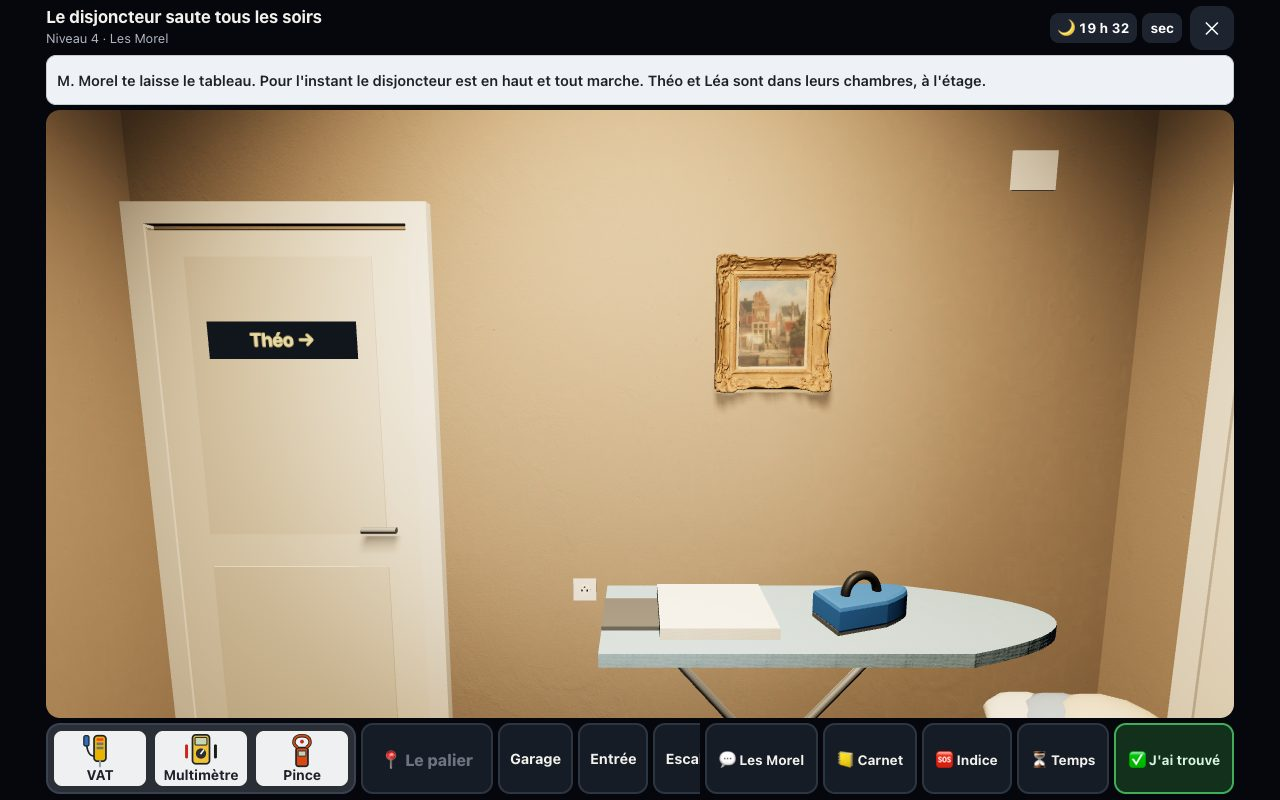
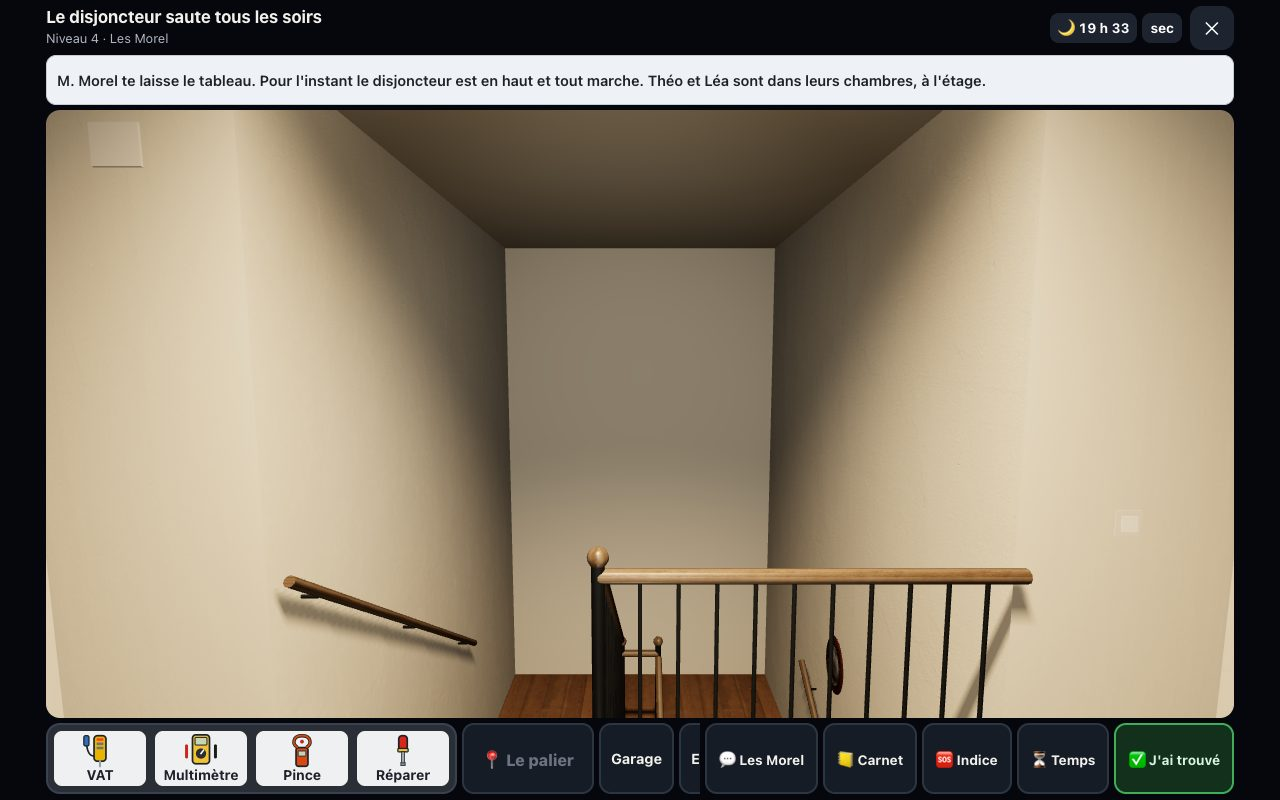
Atelier 3D, niveau 4 : escalier à monter, séjour et cuisine (la plaque de cuisson y est), Théo et Léa dans leur chambre

diff --git a/atelier/3d/niveau/niveau4.js b/atelier/3d/niveau/niveau4.js
@@ -1,8 +1,10 @@
 // Niveau 4 — « Le disjoncteur saute tous les soirs » : le pavillon de la famille Morel.
 // Surcharge ou court-circuit ? Pince ampèremétrique, et un client qui veut « mettre plus gros ».
+import { CAGE, monter, descendre } from "./cage.js";
 import { pavillon, causesPavillon, soireePavillon, reperesPavillon as F } from "../moteur/logements/pavillon.js";
 
 const porte = (vers, mur, u, y = 1.025) => ({ t: "porte", vers, mur, u, y });
+const LE = 1.8, LPA = 2.6; // profondeur du pied de l'escalier et du palier
 const enHaut = (P) => ["palier", "chambre1", "chambre2", "chambre3"].some((l) => P.vus.has(`lieu:${l}`));
 const calibreLu = (P) => P.vus.has("indice:Q6") || P.vus.has("lu:Q6");
 const SOIR = (P) => soireePavillon[P.cause];
@@ -42,6 +44,8 @@ export default {
   },
   // s'asseoir sur le lit de Théo
   gestes: {
+    theo(P, o) { o.dire("Théo retire son casque : « Ouais ? Si c'est pour le courant, c'est le soir que ça saute. Demandez-moi ce qui est allumé, je sais. »", "client"); return true; },
+    lea(P, o) { o.dire("Léa lève les yeux de son téléphone : « Ça saute tous les soirs vers cette heure-ci. J'ai froid dans ma chambre, alors j'ai un radiateur. Posez-moi vos questions si vous voulez. »", "client"); return true; },
     lit(P, o) { const e = P.e; e.appuis.lit = true; const r = P.inst.calculer(e); e.appuis.lit = false; o.dire(r.declenchements.length ? "Tu t'assois sur le lit de Théo…" : "Tu t'assois sur le lit de Théo. Rien ne se passe.", "info"); o.declenchements(r.declenchements); if (r.declenchements.length) { P.vus.add("lit:declenche"); o.noter("indices", "En s'asseyant sur le lit de Théo, le disjoncteur « Prises chambres » déclenche d'un coup."); } return r.declenchements.length > 0; },
   },
   apresMesure(P, m) {
@@ -80,11 +84,11 @@ export default {
     { id: "chargeur", texte: "Le chargeur de téléphone de Léa", non: "10 W, c'est quelques centièmes d'ampère. Ce n'est pas lui." },
   ],
   remedes: [
-    { id: "repartir", pour: ["A"], effet: (P) => { P.e.branche.fer = "pc_entree"; }, texte: "Ne rien changer au tableau : repasser en bas, sur une prise d'un autre circuit, et proposer un circuit dédié", fait: "Aucune pièce changée. Tu expliques : le disjoncteur a fait son travail, il protège les conducteurs. Le fer à repasser ira sur une prise du bas, qui dépend d'un autre circuit, et tu proposes un circuit dédié pour les radiateurs. Le soir même, tout est allumé et le disjoncteur tient.", non: "Il n'y a pas de surcharge : le courant du soir reste sous le calibre prévu." },
-    { id: "identique", pour: ["B"], repare: true, texte: "Remplacer le disjoncteur par le même calibre, 20 A, et serrer correctement ses bornes", fait: "Tu remplaces le disjoncteur abîmé par un neuf du même calibre, 20 A pour ces conducteurs en 2,5 mm², et tu serres ses bornes. Le soir même, tout est allumé et il tient.", non: "Ce disjoncteur n'est pas abîmé : le changer à l'identique ne règle rien." },
-    { id: "rallonge", pour: ["C"], repare: true, texte: "Retirer la rallonge écrasée et brancher la lampe de Théo autrement", fait: "Tu retires la rallonge écrasée, tu la montres à Théo et à son père, et tu branches la lampe directement. Théo se jette sur son lit : le disjoncteur tient.", non: "Aucune rallonge n'est en cause ici." },
-    { id: "calibre", pour: ["D"], repare: true, texte: "Remettre un disjoncteur de 20 A, le calibre prévu pour des conducteurs en 2,5 mm²", fait: "Tu remplaces le disjoncteur de 10 A par un 20 A : c'est le calibre prévu pour des conducteurs en 2,5 mm² (module 12). Le soir même, tout est allumé et il tient.", non: "Le disjoncteur a déjà le calibre prévu pour ces conducteurs." },
-    { id: "gros", pour: [], faute: "Tu as accepté de poser un disjoncteur de 32 A sur des conducteurs en 2,5 mm². Le calibre protège les conducteurs : avec un calibre trop fort, ce sont les fils qui chauffent dans le mur. C'est l'erreur grave de ce dépannage.", texte: "Faire ce que demande M. Morel : poser un disjoncteur de 32 A", non: "« Ah, enfin ! » Non. Le calibre protège les conducteurs : en 2,5 mm², c'est 20 A au plus. Un 32 A laisserait les fils chauffer dans le mur. Tu dois refuser et l'expliquer." },
+    { id: "repartir", ou: ["fer"], pour: ["A"], effet: (P) => { P.e.branche.fer = "pc_entree"; }, texte: "Ne rien changer au tableau : repasser en bas, sur une prise d'un autre circuit, et proposer un circuit dédié", fait: "Aucune pièce changée. Tu expliques : le disjoncteur a fait son travail, il protège les conducteurs. Le fer à repasser ira sur une prise du bas, qui dépend d'un autre circuit, et tu proposes un circuit dédié pour les radiateurs. Le soir même, tout est allumé et le disjoncteur tient.", non: "Il n'y a pas de surcharge : le courant du soir reste sous le calibre prévu." },
+    { id: "identique", ou: ["Q6"], pour: ["B"], repare: true, texte: "Remplacer le disjoncteur par le même calibre, 20 A, et serrer correctement ses bornes", fait: "Tu remplaces le disjoncteur abîmé par un neuf du même calibre, 20 A pour ces conducteurs en 2,5 mm², et tu serres ses bornes. Le soir même, tout est allumé et il tient.", non: "Ce disjoncteur n'est pas abîmé : le changer à l'identique ne règle rien." },
+    { id: "rallonge", ou: ["rallonge"], pour: ["C"], repare: true, texte: "Retirer la rallonge écrasée et brancher la lampe de Théo autrement", fait: "Tu retires la rallonge écrasée, tu la montres à Théo et à son père, et tu branches la lampe directement. Théo se jette sur son lit : le disjoncteur tient.", non: "Aucune rallonge n'est en cause ici." },
+    { id: "calibre", ou: ["Q6"], pour: ["D"], repare: true, texte: "Remettre un disjoncteur de 20 A, le calibre prévu pour des conducteurs en 2,5 mm²", fait: "Tu remplaces le disjoncteur de 10 A par un 20 A : c'est le calibre prévu pour des conducteurs en 2,5 mm² (module 12). Le soir même, tout est allumé et il tient.", non: "Le disjoncteur a déjà le calibre prévu pour ces conducteurs." },
+    { id: "gros", ou: ["Q6"], pour: [], faute: "Tu as accepté de poser un disjoncteur de 32 A sur des conducteurs en 2,5 mm². Le calibre protège les conducteurs : avec un calibre trop fort, ce sont les fils qui chauffent dans le mur. C'est l'erreur grave de ce dépannage.", texte: "Faire ce que demande M. Morel : poser un disjoncteur de 32 A", non: "« Ah, enfin ! » Non. Le calibre protège les conducteurs : en 2,5 mm², c'est 20 A au plus. Un 32 A laisserait les fils chauffer dans le mur. Tu dois refuser et l'expliquer." },
   ],
   // on rejoue la soirée après le remède : tout ce qui tourne le soir, et Théo sur son lit
   verifier(P) {
@@ -127,26 +131,53 @@ export default {
         { t: "etagereChargee", mur: "N", u: 1.42, y: 0 }, { t: "porteGarage", mur: "S", u: 0.3, y: 0, w: 2.5 },
         { t: "modele", f: "cardboard_box_01", x: -1.6, z: 1.25, r: 0.3 }, { t: "modele", f: "cardboard_box_01", x: -1.55, y: 0.3, z: 1.22, r: -0.25, s: 0.8 }, { t: "modele", f: "wooden_crate_02", x: -1.0, z: 1.4, r: 0.2 },
         { t: "modele", f: "rusted_spade_01", x: -1.98, z: 0.85, rx: -0.14, r: 1.6 }, { t: "balai", x: -1.95, z: 1.05, r: 1.4 }, { t: "modele", f: "watering_can_metal_01", x: 0.95, z: -1.45, r: 0.6 } ] },
-      entree: { nom: "l'entrée", court: "L'entrée", raccourci: "Entrée", taille: [3, 3], sol: "carrelage", objets: [
-        { t: "inter", id: "int_entree", mur: "S", u: 0.9, y: 1.1 }, { t: "plafonnier", id: "pl_entree" }, { t: "prise", id: "pc_entree", mur: "E", u: 0.4, y: 0.75 }, { t: "boite", id: "bd_rdc", mur: "E", u: -0.8, y: 2.2 },
-        porte("garage", "O", 0.5), porte("escalier", "N", 0.4),
+      entree: { nom: "l'entrée", court: "L'entrée", raccourci: "Entrée", taille: [3.6, 3], sol: "carrelage", objets: [
+        { t: "inter", id: "int_entree", mur: "S", u: 1.2, y: 1.1 }, { t: "plafonnier", id: "pl_entree" }, { t: "prise", id: "pc_entree", mur: "E", u: 0.4, y: 0.75 }, { t: "boite", id: "bd_rdc", mur: "E", u: -0.8, y: 2.2 },
+        porte("garage", "O", 0.5), porte("escalier", "N", 1.15), porte("sejour", "N", -0.95),
         { t: "porteEntree", mur: "S", u: -0.5, y: 0 }, { t: "portemanteau", mur: "O", u: -0.78, y: 1.74 }, { t: "chaussures", mur: "O", u: -0.78, y: 0 },
         { t: "tapis", x: 0, z: 0.2, w: 1.7, d: 1.2, couleurs: ["#6b2a26", "#d9c9a3", "#2f3f55"] },
-        { t: "modele", f: "ClassicConsole_01", x: 1.33, z: -0.7, r: -Math.PI / 2, s: 0.62, avec: [ { t: "cles", x: -0.28, y: 0.59, z: 0.03 }, { t: "courrier", x: 0.02, y: 0.59, z: 0.02 }, { t: "modele", f: "potted_plant_04", x: 0.28, y: 0.59, z: 0.02 } ] },
-        { t: "modele", f: "ornate_mirror_01", mur: "E", u: -0.7, y: 1.45, auMur: true, s: 0.9 }, { t: "modele", f: "fancy_picture_frame_01", mur: "N", u: -0.75, y: 1.62, auMur: true, s: 0.6 },
+        { t: "modele", f: "ClassicConsole_01", x: 1.63, z: -0.7, r: -Math.PI / 2, s: 0.62, avec: [ { t: "cles", x: -0.28, y: 0.59, z: 0.03 }, { t: "courrier", x: 0.02, y: 0.59, z: 0.02 }, { t: "modele", f: "potted_plant_04", x: 0.28, y: 0.59, z: 0.02 } ] },
+        { t: "modele", f: "ornate_mirror_01", mur: "E", u: -0.7, y: 1.45, auMur: true, s: 0.9 }, { t: "modele", f: "fancy_picture_frame_01", mur: "N", u: 0.1, y: 1.62, auMur: true, s: 0.5 },
         { t: "modele", f: "rubber_boots", x: 0.85, z: 1.22, s: 0.9, e: [0.55, 1, 1], r: Math.PI } ] },
-      escalier: { nom: "l'escalier", court: "L'escalier", raccourci: "Escalier", taille: [1.5, 4.4], h: 5.3, sol: "bois", camera: [0, 1.62, 1.8], pitch: 0.28, objets: [
-        { t: "marches", n: 14, haut: 2.8 }, { t: "inter", id: "int_escalier", mur: "O", u: -1.6, y: 1.1 }, { t: "plafonnier", id: "pl_escalier" }, porte("entree", "S", 0), porte("palier", "N", 0, 3.825),
-        { t: "rampe", x: 0.7, y: 0.92, z: 1.2, l: 3.2, h: 2.8 },
-        { t: "modele", f: "hanging_picture_frame_03", mur: "O", u: -0.55, y: 2.0, auMur: true, s: 0.7 }, { t: "modele", f: "fancy_picture_frame_01", mur: "O", u: 0.4, y: 2.8, auMur: true, s: 0.5 }, { t: "modele", f: "hanging_picture_frame_03", mur: "O", u: 1.3, y: 3.6, auMur: true, s: 0.7 } ] },
-      palier: { nom: "le palier", court: "Le palier", raccourci: "Palier", taille: [3.4, 2.4], sol: "bois", objets: [
-        { t: "inter", id: "int_palier", mur: "S", u: 1.2, y: 1.1 }, { t: "plafonnier", id: "pl_palier" }, { t: "prise", id: "pc_palier", mur: "N", u: -0.2, y: 0.75 }, { t: "prise", id: "pc_sde", mur: "E", u: 0.7, y: 1.15 }, { t: "boite", id: "bd_et", mur: "N", u: 1.3, y: 2.2 },
-        porte("escalier", "S", -0.2), porte("chambre1", "O", 0), porte("chambre2", "N", -1.2), porte("chambre3", "E", -0.4),
+      // le séjour et la cuisine : la famille vit en bas ; la plaque de cuisson du tableau est ici
+      sejour: { nom: "le séjour", court: "Le séjour", raccourci: "Séjour", taille: [4.6, 4], sol: "bois", camera: [1.45, 1.62, 1.5], yaw: 0.6, pitch: -0.22, objets: [
+        { t: "inter", id: "int_sejour", mur: "S", u: -1.4, y: 1.1 }, { t: "plafonnier", id: "pl_sejour" }, { t: "prise", id: "pc_sejour", mur: "N", u: -1.9, y: 0.75 },
+        porte("entree", "S", 0.8), porte("cuisine", "O", 0.6),
+        { t: "fenetre", mur: "N", u: 0.6, y: 1.45, w: 1.2, h: 1.15, vue: "nuit", rideaux: 0x8a5a3a },
+        { t: "tapis", x: -0.45, z: -0.35, w: 2.6, d: 1.9, couleurs: ["#7a2f2a", "#e2d3ae", "#2f3f55"] },
+        { t: "modele", f: "modern_wooden_cabinet", x: -1.05, z: -1.76, e: [0.8, 1, 1], avec: [ { t: "tele", id: "television", x: 0.3, y: 0.68, z: -0.02 }, { t: "modele", f: "standing_picture_frame_02", x: -0.55, y: 0.68, z: 0.02, r: 0.3, s: 0.8 } ] },
+        { t: "modele", f: "Sofa_01", x: -0.45, z: 0.55, r: Math.PI, s: 1.2, avec: [ { t: "plaid", x: 0.86, y: 0.72, z: 0.1, r: Math.PI / 2, c: 0xa8553f }, { t: "modele", f: "throw_pillows_01", x: -0.75, y: 0.5, z: -0.02, s: 0.7 } ] },
+        { t: "modele", f: "coffee_table_round_01", x: -0.45, z: -0.6, s: 0.62, avec: [ { t: "tasse", x: 0.12, y: 0.303, z: 0.1, c: 0xa8553f }, { t: "telecommande", x: -0.16, y: 0.303, z: 0.05, r: -0.4 }, { t: "livre", x: -0.05, y: 0.303, z: -0.2, r: 0.4 } ] },
+        { t: "modele", f: "wooden_bookshelf_worn", x: 2.1, z: -0.8, r: -Math.PI / 2, avec: [
+          { t: "livres", y: 0.39, w: 1.1, z: 0.02, g: 3 }, { t: "livres", y: 0.67, w: 1.1, z: 0.02, g: 5 }, { t: "livres", x: -0.2, y: 0.96, w: 0.7, z: 0.02, g: 2, n: 14 }, { t: "modele", f: "ceramic_vase_01", x: 0.38, y: 0.96, z: 0.03, s: 0.6 },
+          { t: "modele", f: "wicker_basket_02", x: 0.2, y: 1.66, z: 0.02 }, { t: "modele", f: "wicker_basket_01", x: -0.25, y: 0.11, z: 0.05, s: 1.5 } ] },
+        { t: "modele", f: "fancy_picture_frame_02", mur: "E", u: 1.2, y: 1.62, auMur: true, s: 0.8 }, { t: "modele", f: "wall_clock", mur: "S", u: -0.45, y: 1.95, auMur: true },
+        { t: "modele", f: "potted_plant_02", x: -1.95, z: 1.6, h: 0.85, sansOmbre: true } ] },
+      cuisine: { nom: "la cuisine", court: "La cuisine", raccourci: "Cuisine", taille: [3.2, 2.8], sol: "carrelage", camera: [0.5, 1.62, 0.95], yaw: 0.28, pitch: -0.2, objets: [
+        { t: "inter", id: "int_cuisine", mur: "E", u: -0.3, y: 1.1 }, { t: "plafonnier", id: "pl_cuisine" }, { t: "prise", id: "pc_cuisine", mur: "O", u: 0.55, y: 1.15 },
+        porte("sejour", "E", 0.7),
+        { t: "cuisine", mur: "N", u: 0, y: 0, x0: -1.6, segments: [{ k: "bas", w: 0.6, haut: true }, { k: "evier", w: 0.8 }, { k: "tiroirs", w: 0.6, haut: true }, { k: "vide", w: 0.6, hotte: true }, { k: "bas", w: 0.6, haut: true }] },
+        { t: "fenetre", mur: "N", u: -0.6, y: 1.8, w: 0.7, h: 0.55, rideaux: false, vue: "nuit" },
+        { t: "modele", f: "electric_stove", id: "plaque", x: 0.7, z: -1.07, s: 1.05, zone: [0.55, 0.95, 0.7], voyant: [0.2, 0.8, 0.345] },
+        { t: "frigo", id: "refrigerateur", x: -1.28, z: 0.42, r: Math.PI / 2 },
+        { t: "modele", f: "round_wooden_table_01", x: -0.3, z: 0.85, e: [0.62, 0.75, 0.62], avec: [ { t: "tasse", x: 0.12, y: 0.753, z: 0.05, c: 0xa8553f }, { t: "modele", f: "wooden_bowl_02", x: -0.1, y: 0.753, z: 0.12, s: 1.2 }, { t: "livre", x: 0.05, y: 0.753, z: -0.2, r: 0.5, c: 0x3f5a8a } ] },
+        { t: "modele", f: "painted_wooden_chair_02", x: 0.3, z: 0.95, r: -Math.PI / 2 - 0.3, s: 0.74 }, { t: "modele", f: "painted_wooden_chair_02", x: -0.4, z: 0.25, r: 0.2, s: 0.74 },
+        { t: "modele", f: "pot_enamel_01", x: 0.62, y: 0.93, z: -1.1 }, { t: "modele", f: "jug_01", x: -1.35, y: 0.92, z: -1.15, r: 0.6 }, { t: "torchon", mur: "E", u: -0.85, y: 1.2 } ] },
+      // l'escalier de la maison : une vraie cage à deux volées, de l'entrée au palier (cage.js) ; on la monte marche après marche
+      escalier: { nom: "le pied de l'escalier", court: "L'escalier", raccourci: "Escalier", ensemble: "cage", coque: false, pos: [0, 0, 0], taille: [2.6, LE], h: 2.6, camera: [0, 1.62, LE / 2 - 0.45], pitch: 0.05, objets: [
+        { t: "cageEtage", sol: "bois", marches: "bois", soubassement: false, sousEscalier: true }, monter("palier", LE),
+        { t: "inter", id: "int_escalier", mur: "O", u: -0.35, y: 1.1 }, { t: "plafonnier", id: "pl_escalier", z: -0.2 }, porte("entree", "S", 0),
+        { t: "modele", f: "hanging_picture_frame_03", mur: "E", u: 0.3, y: 1.65, auMur: true, s: 0.7 }, { t: "modele", f: "fancy_picture_frame_01", x: 1.2, y: 1.95, z: -LE / 2 - 0.7, r: -Math.PI / 2, auMur: true, s: 0.5 }, { t: "modele", f: "hanging_picture_frame_03", x: 1.2, y: 2.55, z: -LE / 2 - 1.5, r: -Math.PI / 2, auMur: true, s: 0.7 },
+        { t: "modele", f: "potted_plant_01", x: -1.05, z: 0.55, h: 0.7, sansOmbre: true } ] },
+      palier: { nom: "le palier", court: "Le palier", raccourci: "Palier", ensemble: "cage", coque: false, pos: [0, CAGE.H, -LE / 2 + LPA / 2], taille: [3.8, LPA], h: 2.6, camera: [0, 1.62, LPA / 2 - 0.9], pitch: -0.08, objets: [
+        { t: "cageEtage", sol: "bois", marches: "bois", soubassement: false, arrive: true, monte: false, dernier: true }, descendre("escalier", LPA),
+        { t: "inter", id: "int_palier", mur: "N", u: 1.55, y: 1.1 }, { t: "plafonnier", id: "pl_palier" }, { t: "prise", id: "pc_palier", mur: "S", u: -1.35, y: 0.75 }, { t: "prise", id: "pc_sde", mur: "E", u: 0.85, y: 1.15 }, { t: "boite", id: "bd_et", mur: "N", u: -1.55, y: 2.25 },
+        porte("chambre1", "O", 0.2), porte("chambre2", "S", 0.2), porte("chambre3", "E", -0.3),
         // la table à repasser de Mme Morel, le fer branché sur la prise du palier
-        { t: "repassage", id: "fer", x: 0.5, z: -0.72 },
-        { t: "modele", f: "wicker_basket_02", x: 1.38, z: -0.92, h: 0.42, e: [0.62, 1, 0.62], avec: [{ t: "linge", y: 0.36 }] },
-        { t: "tapis", x: 0, z: 0.25, w: 2.0, d: 0.9, couleurs: ["#3f5a4a", "#e2d3ae", "#7a2f2a"] },
-        { t: "modele", f: "fancy_picture_frame_02", mur: "N", u: 0.45, y: 1.7, auMur: true, s: 0.6 }, { t: "modele", f: "potted_plant_01", x: -1.42, z: 0.92, h: 0.75, sansOmbre: true } ] },
+        { t: "repassage", id: "fer", x: 1.15, z: 0.62 },
+        { t: "modele", f: "wicker_basket_02", x: 1.62, z: 1.05, h: 0.42, e: [0.62, 1, 0.62], avec: [{ t: "linge", y: 0.36 }] },
+        { t: "tapis", x: -0.2, z: 0.1, w: 1.8, d: 0.9, couleurs: ["#3f5a4a", "#e2d3ae", "#7a2f2a"] },
+        { t: "modele", f: "fancy_picture_frame_02", mur: "O", u: -0.85, y: 1.7, auMur: true, s: 0.6 }, { t: "modele", f: "potted_plant_01", x: -1.6, z: 1.0, h: 0.75, sansOmbre: true } ] },
       chambre1: { nom: "la chambre des parents", court: "La chambre des parents", raccourci: "Parents", taille: [3.4, 3.2], sol: "bois", camera: [0.2, 1.62, 1.15], yaw: 0.15, pitch: -0.18, objets: [
         { t: "inter", id: "int_chambre1", mur: "E", u: 1.0, y: 1.1 }, { t: "plafonnier", id: "pl_chambre1" }, { t: "prise", id: "pc_chambre1", mur: "N", u: 1.2, y: 0.75 }, porte("palier", "E", -0.6),
         { t: "lit", x: -0.15, z: -0.49, w: 1.6, couette: 0x7a4a55, plaid: 0xd9c9a3 },
@@ -164,7 +195,8 @@ export default {
         { t: "rallonge", id: "rallonge", x: 0, z: 0, points: [[-0.42, 0.006, -1.5], [-0.2, 0.006, -1.42], [0.2, 0.006, -1.46], [0.55, 0.006, -1.4]] },
         { t: "radiateur", id: "radiateur2", x: -1.36, z: 0.95, r: Math.PI / 2 },
         { t: "modele", f: "wooden_table_02", x: 1.22, z: -0.3, r: -Math.PI / 2, avec: [ { t: "ordinateur", id: "ordinateur", x: -0.1, y: 0.8, z: 0.02 }, { t: "modele", f: "desk_lamp_arm_01", x: -0.45, y: 0.8, z: -0.18, h: 0.42, r: 0.6 } ] },
-        { t: "modele", f: "painted_wooden_chair_02", x: 0.6, z: -0.3, r: Math.PI / 2, s: 0.74, avec: [ { t: "vetement", x: 0, y: 0.94, z: -0.2, w: 0.44, l: 0.9, c: 0x2f3f55 } ] },
+        { t: "modele", f: "painted_wooden_chair_02", x: 0.6, z: -0.3, r: Math.PI / 2, s: 0.74 },
+        { t: "personne", id: "theo", x: 0.6, z: -0.3, r: Math.PI / 2, assise: 0.4, haut: 0x2f3f55, bas: 0x3a3f46, cheveux: 0x3a2a1c, casque: true, manches: true },
         { t: "fenetre", mur: "E", u: -0.95, y: 1.6, w: 0.8, h: 0.9, vue: "nuit", rideaux: false },
         { t: "affiche", mur: "N", u: -0.1, y: 1.65, texte: "TOURNÉE" }, { t: "affiche", mur: "O", u: -0.6, y: 1.65, w: 0.45, h: 0.62, texte: "FINALE", couleurs: ["#3f5a3a", "#f2efe6", "#1f2a44"] },
         { t: "tapis", x: 0.2, z: 0.45, w: 1.5, d: 1.0, couleurs: ["#22262d", "#8d949c", "#c8261e"] }, { t: "linge", x: -0.2, y: 0.02, z: 0.75 },
@@ -172,6 +204,7 @@ export default {
       chambre3: { nom: "la chambre de Léa", court: "La chambre de Léa", raccourci: "Léa", taille: [3.2, 3], sol: "bois", camera: [-0.3, 1.62, 1.0], yaw: -0.2, pitch: -0.2, objets: [
         { t: "inter", id: "int_chambre3", mur: "O", u: 0.9, y: 1.1 }, { t: "plafonnier", id: "pl_chambre3" }, { t: "prise", id: "pc_chambre3a", mur: "N", u: -1.0, y: 0.75 }, { t: "prise", id: "pc_chambre3b", mur: "E", u: 0.2, y: 0.75 }, porte("palier", "O", -0.5),
         { t: "lit", x: 0.4, z: -0.48, w: 1.0, l: 2.0, couette: 0xb86a7a, plaid: 0xf2efe6 },
+        { t: "personne", id: "lea", x: -0.02, z: -0.75, r: -Math.PI / 2, assise: 0.5, haut: 0xb86a7a, bas: 0x2f3f55, cheveux: 0x5a3a22, longs: true, telephone: true, manches: true },
         { t: "radiateur", id: "radiateur3", x: -1.0, z: -1.3 },
         { t: "modele", f: "painted_wooden_nightstand", x: 1.32, z: 0.45, r: -Math.PI / 2, h: 0.5 }, { t: "chargeur", id: "chargeur", mur: "E", u: 0.2, y: 0.75 },
         { t: "fenetre", mur: "N", u: 0.4, y: 1.75, w: 0.9, h: 0.7, vue: "nuit", rideaux: 0xb86a7a },

diff --git a/atelier/3d/moteur/logements/pavillon.js b/atelier/3d/moteur/logements/pavillon.js
@@ -5,7 +5,7 @@
 import { chantier } from "./outils.js";
 
 const c = chantier({ id: "pavillon", nom: "Pavillon à étage", niveau: 4, client: "Famille Morel", reperage: "complet", thermique: true, env: { heure: 19.5, pluie: false } });
-for (const [id, nom] of [["garage", "Garage"], ["entree", "Entrée"], ["escalier", "Escalier"], ["palier", "Palier"], ["chambre1", "Chambre des parents"], ["chambre2", "Chambre de Théo"], ["chambre3", "Chambre de Léa"]]) c.piece(id, nom);
+for (const [id, nom] of [["garage", "Garage"], ["entree", "Entrée"], ["sejour", "Séjour"], ["cuisine", "Cuisine"], ["escalier", "Escalier"], ["palier", "Palier"], ["chambre1", "Chambre des parents"], ["chambre2", "Chambre de Théo"], ["chambre3", "Chambre de Léa"]]) c.piece(id, nom);
 
 c.circuit("plaque", "Plaque de cuisson", "specialise", 6);
 c.circuit("ll", "Lave-linge", "specialise", 2.5);
@@ -34,15 +34,15 @@ c.tableau("garage", {
 
 c.boite("bd_rdc", "entree", "ecl_rdc", "Boîte de dérivation de l'entrée");
 c.ligne("ecl_rdc", "Q4", "bd_rdc");
-for (const [p, nom] of [["garage", "du garage"], ["entree", "de l'entrée"], ["escalier", "de l'escalier"]]) c.simpleAllumage("ecl_rdc", "bd_rdc", { id: `int_${p}`, piece: p, nom: `Interrupteur ${nom}` }, { id: `pl_${p}`, piece: p, nom: `Plafonnier ${nom}` });
+for (const [p, nom] of [["garage", "du garage"], ["entree", "de l'entrée"], ["sejour", "du séjour"], ["cuisine", "de la cuisine"], ["escalier", "de l'escalier"]]) c.simpleAllumage("ecl_rdc", "bd_rdc", { id: `int_${p}`, piece: p, nom: `Interrupteur ${nom}` }, { id: `pl_${p}`, piece: p, nom: `Plafonnier ${nom}` });
 c.boite("bd_et", "palier", "ecl_et", "Boîte de dérivation du palier");
 c.ligne("ecl_et", "Q5", "bd_et");
 for (const [p, nom] of [["palier", "du palier"], ["chambre1", "de la chambre des parents"], ["chambre2", "de la chambre de Théo"], ["chambre3", "de la chambre de Léa"]]) c.simpleAllumage("ecl_et", "bd_et", { id: `int_${p}`, piece: p, nom: `Interrupteur ${nom}` }, { id: `pl_${p}`, piece: p, nom: `Plafonnier ${nom}` });
 
 const prCh = c.prises("pr_ch", "Q6", [["pc_palier", "palier", "Prise du palier"], ["pc_chambre1", "chambre1", "Prise de la chambre des parents"], ["pc_chambre2a", "chambre2", "Prise du radiateur de Théo"], ["pc_chambre2b", "chambre2", "Prise du bureau de Théo"], ["pc_chambre3a", "chambre3", "Prise du radiateur de Léa"], ["pc_chambre3b", "chambre3", "Prise du lit de Léa"]]);
-c.prises("pr_rdc", "Q3", [["pc_entree", "entree", "Prise de l'entrée"], ["pc_garage", "garage", "Prise de l'établi"]]);
+c.prises("pr_rdc", "Q3", [["pc_entree", "entree", "Prise de l'entrée"], ["pc_garage", "garage", "Prise de l'établi"], ["pc_sejour", "sejour", "Prise du séjour"], ["pc_cuisine", "cuisine", "Prise du plan de travail"]]);
 c.prises("sde", "Q7", [["pc_sde", "palier", "Prise de la salle d'eau"]]);
-c.fixe("plaque", "Q1", "plaque", "entree", "Plaque de cuisson", 7200);
+c.fixe("plaque", "Q1", "plaque", "cuisine", "Plaque de cuisson", 7200);
 c.prises("ll", "Q2", [["pc_lavelinge", "garage", "Prise du lave-linge"]]);
 
 c.appareil("radiateur2", "Radiateur d'appoint de Théo", 2000, "pc_chambre2a", false);
@@ -52,6 +52,8 @@ c.appareil("ordinateur", "Ordinateur de Théo", 300, "pc_chambre2b", false);
 c.appareil("chargeur", "Chargeur de téléphone", 10, "pc_chambre3b", true);
 c.appareil("chevet", "Lampe de chevet", 40, "pc_chambre1", false);
 c.appareil("lavelinge", "Lave-linge", 2200, "pc_lavelinge", false);
+c.appareil("television", "Télévision", 120, "pc_sejour", true);
+c.appareil("refrigerateur", "Réfrigérateur", 150, "pc_cuisine", true);
 
 // un soir d'hiver : les lumières sont allumées
 c.logement.etat = Object.fromEntries(c.logement.organes.filter((o) => o.type === "interrupteur").map((o) => [o.id, true]));
